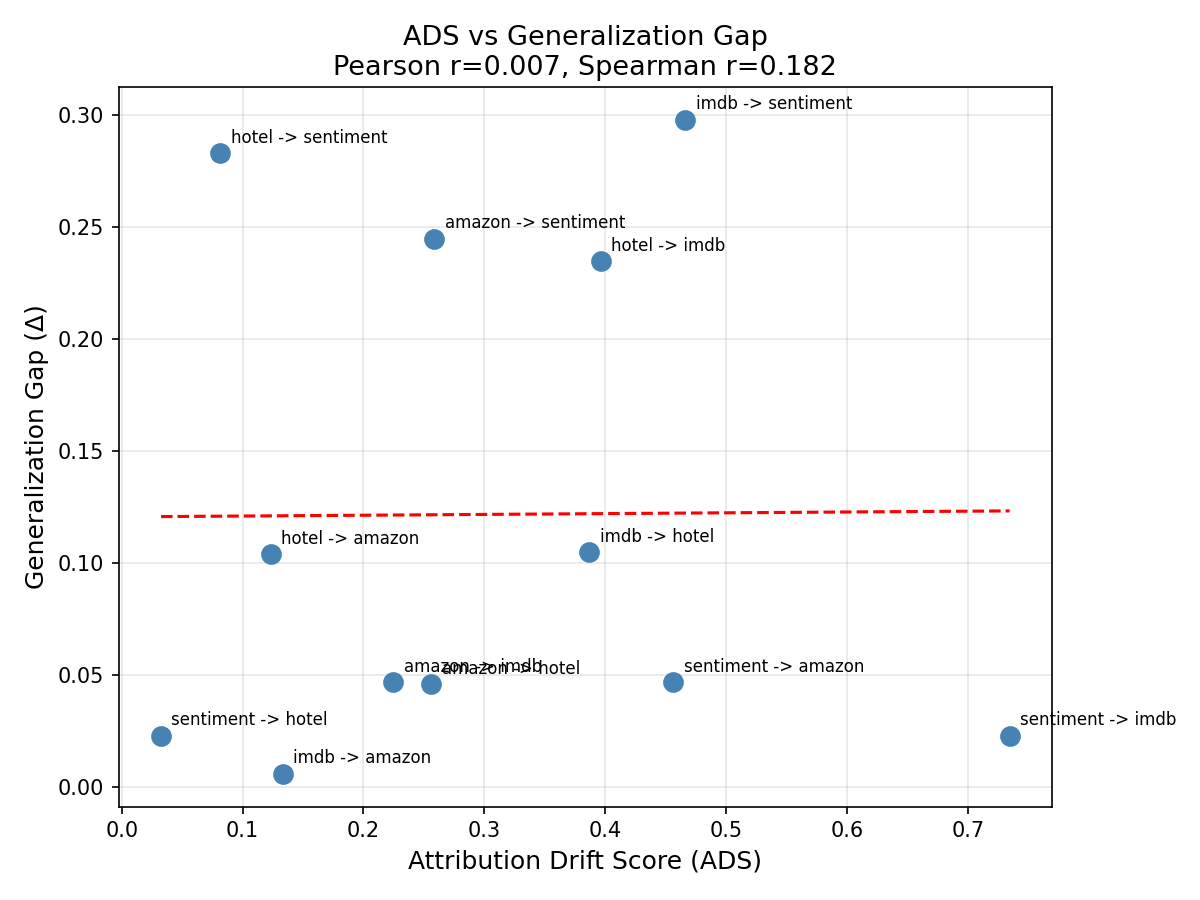
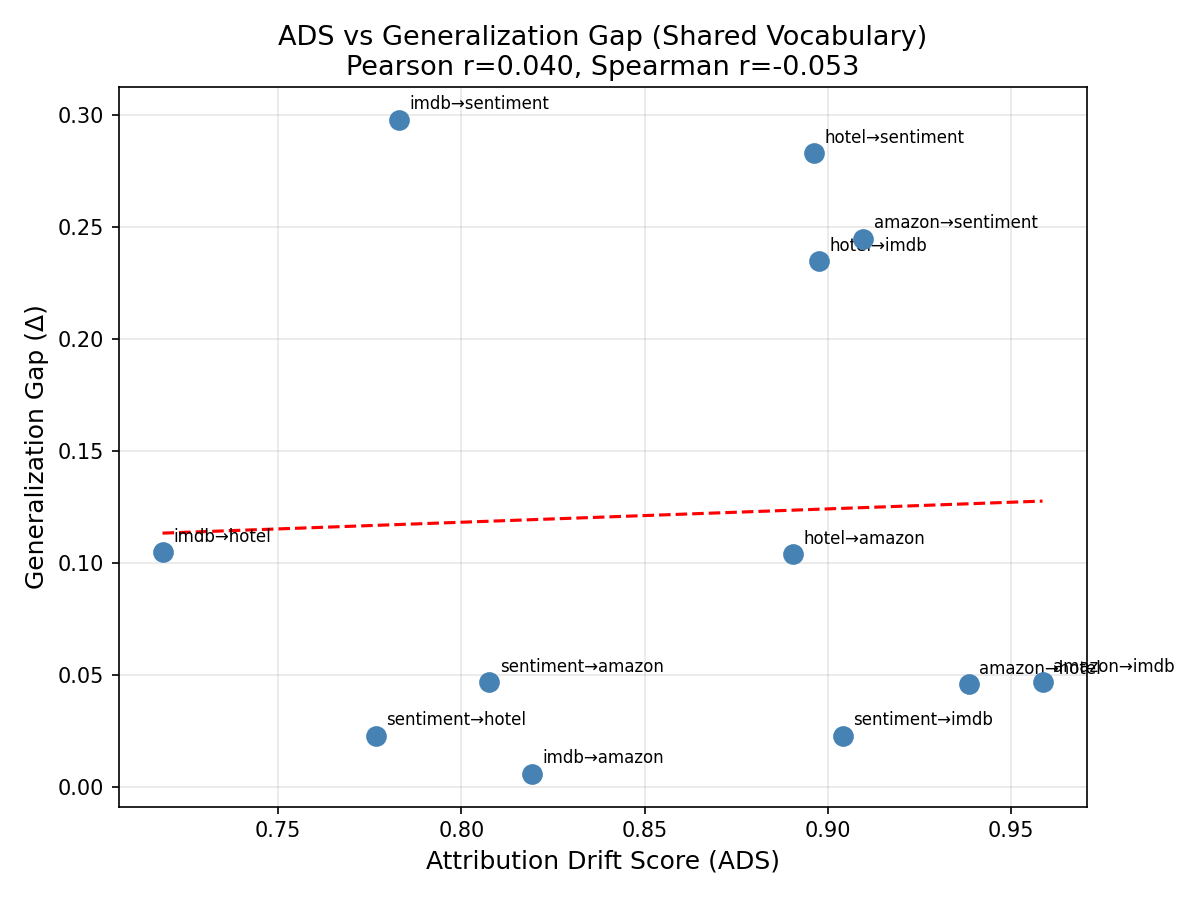
phase_004 complete

diff --git a/models/agm/train.py b/models/agm/train.py
@@ -31,7 +31,7 @@ load_dotenv()
 DOMAINS      = ['imdb', 'amazon', 'hotel', 'sentiment']
 DATA_ROOT    = os.path.join(os.path.dirname(__file__), '..', '..', 'data')
 CKPT_DIR     = os.path.join(os.path.dirname(__file__), '..', '..', 'checkpoints')
-BATCH_SIZE   = 16    # smaller than other models — AGM is memory intensive
+BATCH_SIZE   = 8    # smaller than other models — AGM is memory intensive
 MAX_LENGTH   = 256
 EPOCHS       = 10
 LR           = 2e-5
@@ -195,6 +195,7 @@ def train(target_domain, seed, tokenizer):
 
     # ── Models ────────────────────────────────────────────────────────────────
     model = AGMModel(num_labels=2).to(DEVICE)
+    model.roberta.gradient_checkpointing_enable()
 
     # MLM model for counterfactual generation — shares backbone with AGMModel
     # sharing weights means only one set of RoBERTa weights in GPU memory
@@ -253,6 +254,8 @@ def train(target_domain, seed, tokenizer):
             # ── 5. Backward on L_CE to get gradients for attribution ──────────
             # retain_graph=True keeps computation graph for L_AGM backward later
             L_CE.backward(retain_graph=True)
+            
+            torch.cuda.empty_cache()
 
             # ── 6. Compute gradient×input attribution ─────────────────────────
             attribution = compute_gradient_input(last_hidden_state)
@@ -292,6 +295,7 @@ def train(target_domain, seed, tokenizer):
             else:
                 L_CCL = torch.tensor(0.0, device=DEVICE)
 
+            torch.cuda.empty_cache()
             # ── 12. Combine losses ────────────────────────────────────────────
             optimizer.zero_grad()
             L_AGM = L_CE + LAMBDA1 * L_mask + LAMBDA2 * L_CCL